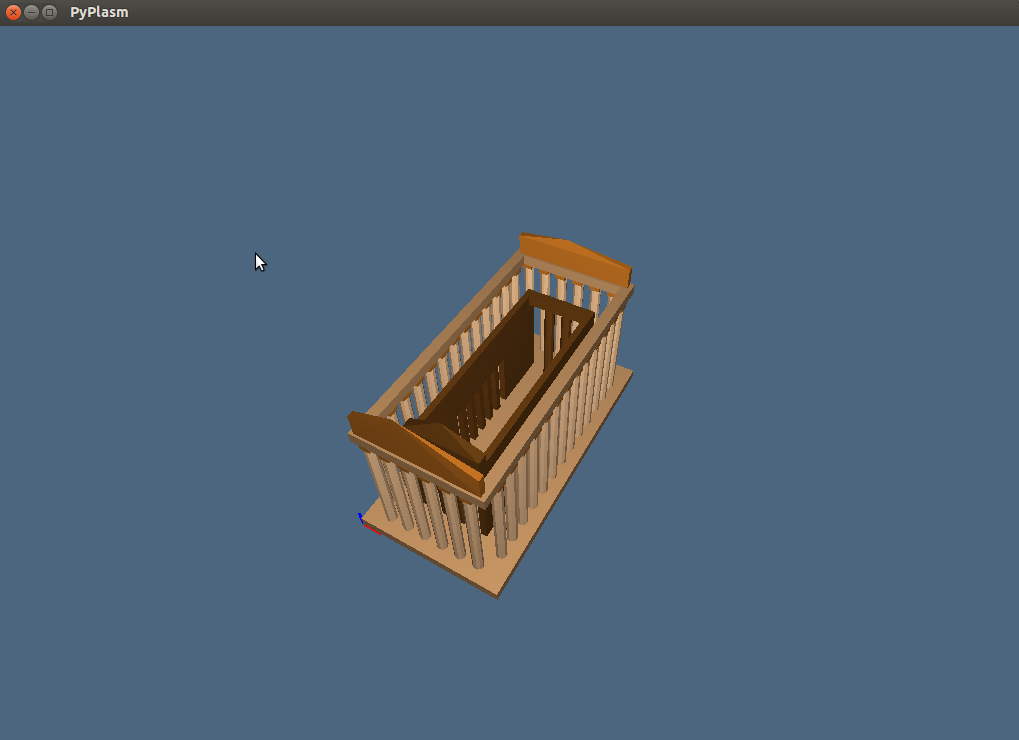
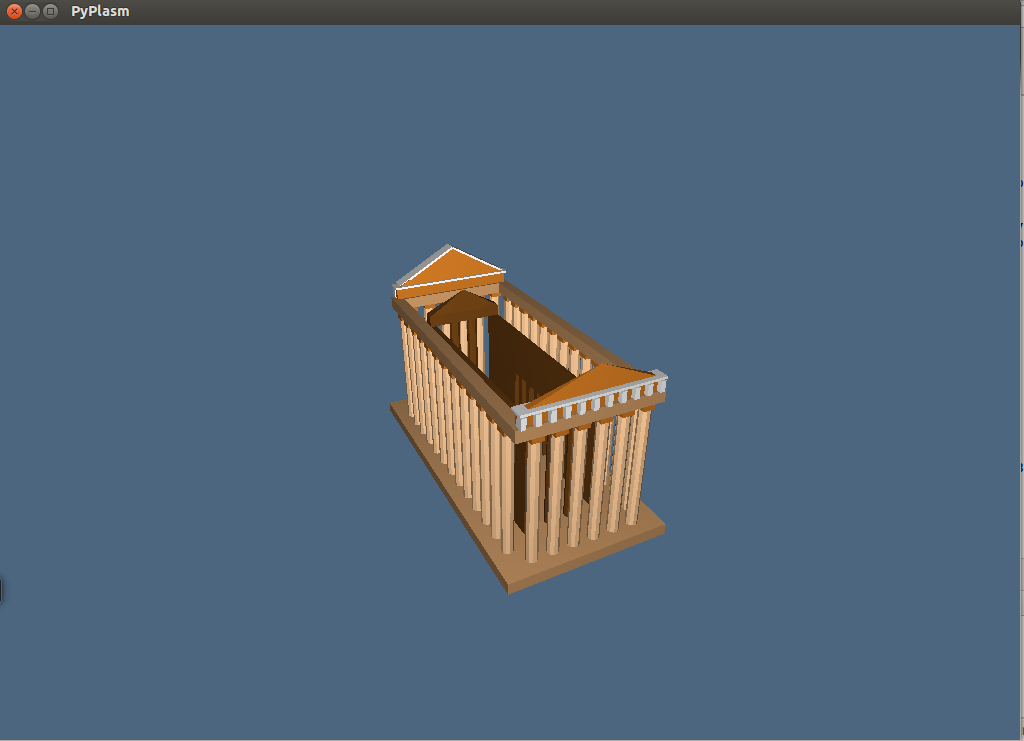
decorations

diff --git a/2014-03-21/index.html b/2014-03-21/index.html
@@ -25,11 +25,13 @@
 		<a href="/immage/exercise2.png">Image exercise 2</a>
 		<a href="/immage/exercise2-2.png">Image exercise 2</a></p>
 		<p><a href="/python/exercise2.py">Exercise 3</a> 
+		<a href="/immage/exercise3-2.png">Image exercise 3</a></p>
 		<a href="/immage/exercise3.png">Image exercise 3</a></p>
+		<a href="/immage/exercise3-1.png">Image exercise 3</a></p>
 		<p><a href="/python/exercise3.py">Exercise 4</a> 
-		<a href="/immage/exercise4.png">Image exercise 4</a></p>
 		<a href="/immage/exercise4-1.png">Image exercise 4</a></p>
 		<a href="/immage/exercise4-2.png">Image exercise 4</a></p>
+		<a href="/immage/exercise4.png">Image exercise 4</a></p>
 	</div>
    </body>
 </html>

diff --git a/2014-03-21/python/exercise4.py b/2014-03-21/python/exercise4.py
@@ -65,8 +65,8 @@ columns_est =  R([1,2])(PI/2)(T([1,2,3])([0.75,-6.25,0.5])(((STRUCT(NN(13)(colum
 columns_ovest = R([1,2])(PI/2)(T([1,2,3])([0.75,-0.75,0.5])(((STRUCT(NN(13)(column))))))
 columns = COLOR(colorColumns)(STRUCT([columns_sud,columns_nord,columns_est,columns_ovest]))
 #triangular front element
-rect = T([1,2,3])([0.7,0.6,6.5])(CUBOID([5.6,0.3,1]))
-pt = MK([3.15,0.45,9])
+rect = T([1,2,3])([0.7,0.6,6.5])(CUBOID([5.6,0.3,0.5]))
+pt = MK([3.35,0.45,8.5])
 front = COLOR(colorCubi)(JOIN([rect,pt]))
 #triangular back element
 rect_back = T(2)(12.5)(rect)
@@ -93,6 +93,18 @@ centralFront = JOIN([rectC,ptC])
 rect_nord = T([2,3])([9.5,-0.5])(rectC)
 #final central structure
 central = COLOR(brown)(STRUCT([a,b,c,d,column_sud_central,column_nord_central,rect_est,rect_ovest,centralFront,rect_up_est,rect_up_ovest,rect_nord]))
+
+#decorations
+decor = [T(1)(0.55), CUBOID([0.2,-0.3,0.45])]
+decoration_s = T([1,2,3])([0.1,0.7,6.5])((STRUCT(NN(11)(decor))))
+plane = T([1,2,3])([0.6,0.4,7])(CUBOID([5.8,0.6,0.1]))
+decoration_sud = STRUCT([decoration_s,plane])
+decoration_nord = T([1,2])([7,14])(R([1,2])(PI)(decoration_sud))
+decoration = STRUCT([decoration_sud,decoration_nord])
+plane2 = R([1,3])(PI/6)(T([1,2,3])([4.1,0.2,5.7])(CUBOID([3.1,0.6,0.1])))
+plane3 = R([1,3])(-PI/6.2)(T([1,2,3])([-1.2,0.2,9.1])(CUBOID([3.1,0.6,0.1])))
+decorations = STRUCT([decoration,plane2,plane3])
+
 #vertical structure
 vertical_mock_up_3D = STRUCT([columns,front,central,back])
 
@@ -122,6 +134,6 @@ spiralStair = COLOR(colorSpiralStair)(T([1,2,3])([3.5,6.5,0.5])(MAP(BEZIER(S3)([
 colorInventedFloor = colorRGB([89,142,85])
 inventedFloor = COLOR(colorInventedFloor)(T([1,2,3])([2,4.5,4])(CUBOID([3,2,0.3])))
 #final 3D model
-solid_model_3D = STRUCT([two_and_half_model,vertical_mock_up_3D,spiralStair,inventedFloor,stairs])
+solid_model_3D = STRUCT([two_and_half_model,vertical_mock_up_3D,spiralStair,inventedFloor,stairs,decorations])
 
 VIEW(solid_model_3D)

diff --git a/2014-03-21/python/exercise3.py b/2014-03-21/python/exercise3.py
@@ -57,8 +57,8 @@ columns_est =  R([1,2])(PI/2)(T([1,2,3])([0.75,-6.25,0.5])(((STRUCT(NN(13)(colum
 columns_ovest = R([1,2])(PI/2)(T([1,2,3])([0.75,-0.75,0.5])(((STRUCT(NN(13)(column))))))
 columns = COLOR(colorColumns)(STRUCT([columns_sud,columns_nord,columns_est,columns_ovest]))
 #triangular front element
-rect = T([1,2,3])([0.7,0.6,6.5])(CUBOID([5.6,0.3,1]))
-pt = MK([3.15,0.45,9])
+rect = T([1,2,3])([0.7,0.6,6.5])(CUBOID([5.6,0.3,0.5]))
+pt = MK([3.35,0.45,8.5])
 front = COLOR(colorCubi)(JOIN([rect,pt]))
 #triangular back element
 rect_back = T(2)(12.5)(rect)
@@ -87,8 +87,18 @@ rect_nord = T([2,3])([9.5,-0.5])(rectC)
 central = COLOR(brown)(STRUCT([a,b,c,d,column_sud_central,column_nord_central,rect_est,rect_ovest,centralFront,rect_up_est,rect_up_ovest,rect_nord]))
 #vertical structure
 vertical_mock_up_3D = STRUCT([columns,front,central,back])
+#decorations
+decor = [T(1)(0.55), CUBOID([0.2,-0.3,0.45])]
+decoration_s = T([1,2,3])([0.1,0.7,6.5])((STRUCT(NN(11)(decor))))
+plane = T([1,2,3])([0.6,0.4,7])(CUBOID([5.8,0.6,0.1]))
+decoration_sud = STRUCT([decoration_s,plane])
+decoration_nord = T([1,2])([7,14])(R([1,2])(PI)(decoration_sud))
+decoration = STRUCT([decoration_sud,decoration_nord])
+plane2 = R([1,3])(PI/6)(T([1,2,3])([4.1,0.2,5.7])(CUBOID([3.1,0.6,0.1])))
+plane3 = R([1,3])(-PI/6.2)(T([1,2,3])([-1.2,0.2,9.1])(CUBOID([3.1,0.6,0.1])))
+decorations = STRUCT([decoration,plane2,plane3])
 #final 3D model
-solid_model_3D = STRUCT([two_and_half_model,vertical_mock_up_3D])
+solid_model_3D = STRUCT([two_and_half_model,vertical_mock_up_3D,decorations])
 
 VIEW(solid_model_3D)
 
